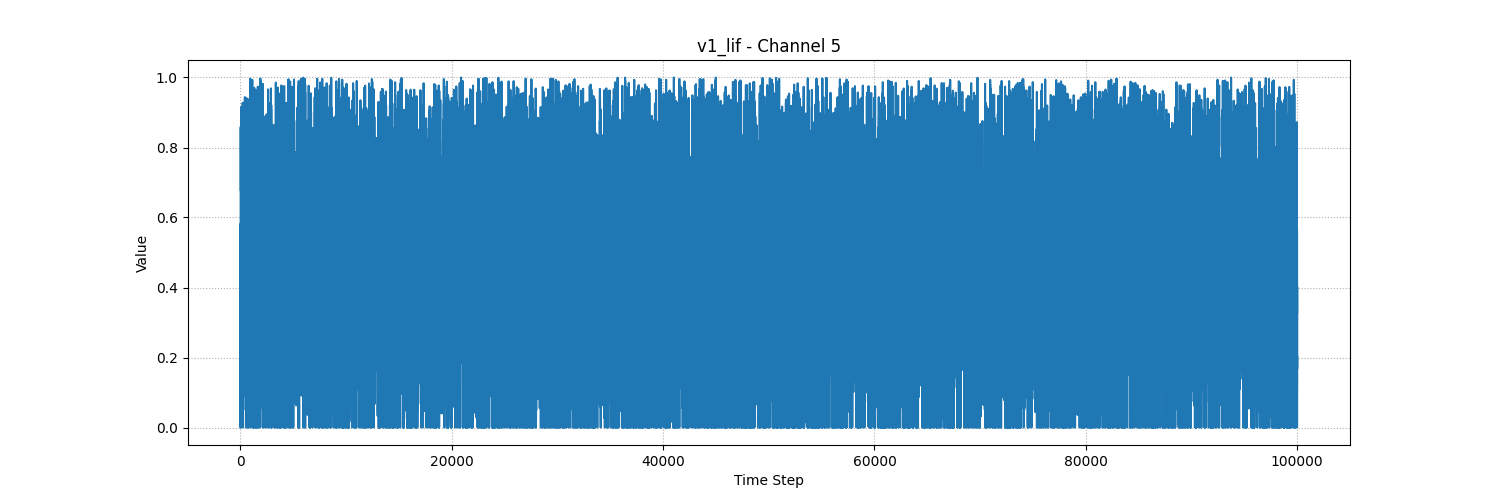
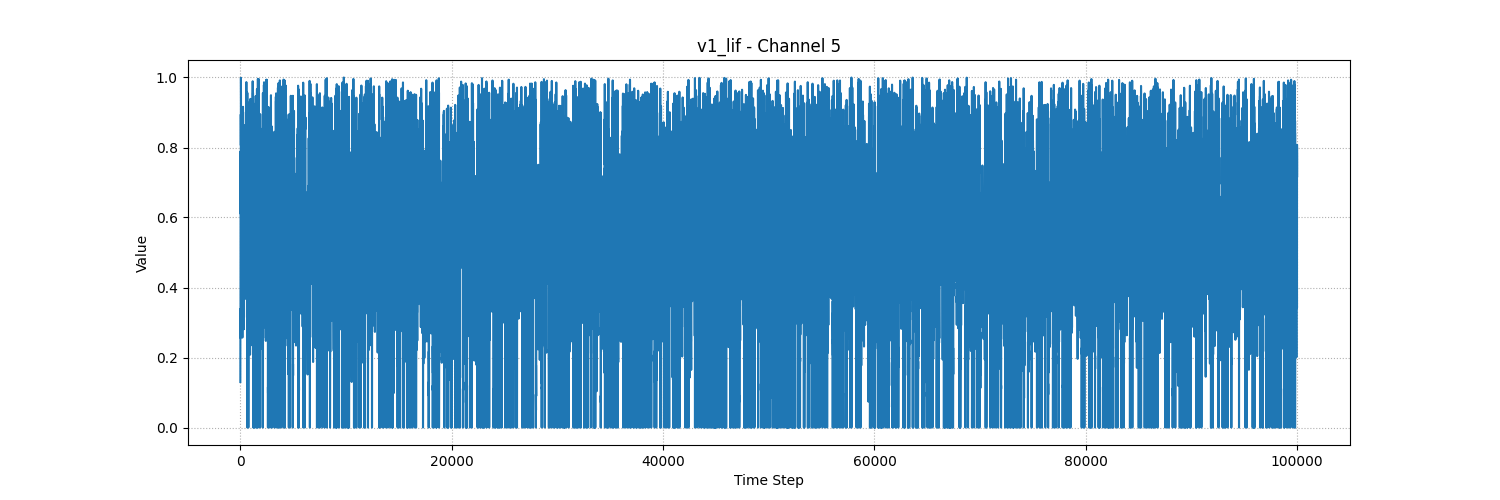
1

Changed region(s): [[0.5213, 0.6, 0.8587, 0.87], [0.1533, 0.15, 0.8587, 0.27], [0.1533, 0.66, 0.4907, 0.87]]

diff --git a/create_toy_datasets.py b/create_toy_datasets.py
@@ -1,5 +1,6 @@
 import numpy as np
 import os
+from scipy.signal import convolve
 
 # =============================================================================
 # --- 全局参数定义 ---
@@ -8,36 +9,41 @@ DATA_PATH = '~/Data/neuron_data'
 TIMESTEPS = 100000
 INPUT_CHANNELS = 20
 OUTPUT_CHANNELS = 7
-# 回归到 1% 的输入稀疏度
 SPIKE_PROBABILITY = 0.01
 
 
 # =============================================================================
-# --- 数据集 1: 简单的线性映射 + Sigmoid (初始版本) ---
+# --- 数据集 1: 平滑的线性映射 ---
 # =============================================================================
 def create_simple_dataset(base_path):
     """
-    创建一个简单的、通过线性变换和非线性激活函数生成的玩具数据集。
+    创建一个平滑的、通过线性变换生成的玩具数据集。
     """
-    print("--- 正在创建数据集 1: 简单映射 (初始版本) ---")
+    print("--- 正在创建数据集 1: 简单平滑映射 ---")
 
-    # 1. 创建输入数据 v0
-    v0_data = np.full((1, INPUT_CHANNELS, TIMESTEPS), -70, dtype=np.int8)
+    # *** 更正部分 1: 直接生成只包含 0 和 1 的 v0 数据 ***
+    v0_data = np.zeros((1, INPUT_CHANNELS, TIMESTEPS), dtype=np.int8)
     np.random.seed(42)
     spike_mask = np.random.rand(1, INPUT_CHANNELS, TIMESTEPS) < SPIKE_PROBABILITY
-    v0_data[spike_mask] = 30
-    v0_binary = (v0_data == 30).astype(np.float32)
+    v0_data[spike_mask] = 1
 
-    # 2. 定义转换矩阵
+    # 定义转换矩阵
     transform_matrix = np.random.randn(INPUT_CHANNELS, OUTPUT_CHANNELS) * 0.5
-    v1_transformed = np.dot(v0_binary[0].T, transform_matrix).T
+    # 直接使用 v0_data[0] 进行计算
+    v1_transformed = np.dot(v0_data[0].T.astype(np.float32), transform_matrix).T
 
-    # 3. 创建 v1 主体 (无平滑)
+    # 对变换后的信号进行平滑处理
+    smoothing_window = np.ones(100) / 100.0
+    v1_smoothed = np.zeros_like(v1_transformed)
+    for i in range(OUTPUT_CHANNELS):
+        v1_smoothed[i, :] = convolve(v1_transformed[i, :], smoothing_window, mode='same')
+
+    # 基于平滑后的信号生成v1
     v1_main = np.zeros((OUTPUT_CHANNELS, TIMESTEPS), dtype=np.float32)
-    v1_main[:6, :] = 1 / (1 + np.exp(-v1_transformed[:6, :]))
-    v1_main[6, :] = (v1_transformed[6, :] > 0.74).astype(np.float32)
+    v1_main[:6, :] = 1 / (1 + np.exp(-v1_smoothed[:6, :]))
+    v1_main[6, :] = (v1_smoothed[6, :] > 0.025).astype(np.float32)
 
-    # 4. 组合并保存
+    # 组合并保存
     initial_state = np.zeros((OUTPUT_CHANNELS, 1), dtype=np.float32)
     v1_data = np.concatenate([initial_state, v1_main], axis=1)[np.newaxis, :, :]
 
@@ -52,32 +58,28 @@ def create_simple_dataset(base_path):
 
 
 # =============================================================================
-# --- 数据集 2: Leaky Integrate-and-Fire (LIF) 神经元 (初始版本) ---
+# --- 数据集 2: 平滑且稀疏的LIF神经元 ---
 # =============================================================================
 def create_lif_dataset(base_path):
     """
-    创建一个基于LIF神经元动力学的玩具数据集 (初始版本)。
+    创建一个膜电位平滑、脉冲发放稀疏的LIF数据集。
     """
-    print("--- 正在创建数据集 2: LIF 神经元 (初始版本) ---")
+    print("--- 正在创建数据集 2: 平滑稀疏LIF神经元 ---")
 
-    # 1. 创建输入数据 v0
-    v0_data = np.full((1, INPUT_CHANNELS, TIMESTEPS), -70, dtype=np.int8)
+    # *** 更正部分 2: 直接生成只包含 0 和 1 的 v0 数据 ***
+    v0_data = np.zeros((1, INPUT_CHANNELS, TIMESTEPS), dtype=np.int8)
     np.random.seed(1337)
     spike_mask = np.random.rand(1, INPUT_CHANNELS, TIMESTEPS) < SPIKE_PROBABILITY
-    v0_data[spike_mask] = 30
-    v0_binary = (v0_data == 30).astype(np.float32)
+    v0_data[spike_mask] = 1
 
-    # 2. 计算输入电流，使用能产生较多脉冲的原始参数
-    input_current = np.sum(v0_binary[0], axis=0) * 0.25
-
-    # 3. 定义LIF参数 (回归到初始值)
-    tau_m = 10.0  # 较小的时间常数，响应更快
-    v_thresh = 1.0  # 阈值电位
-    v_reset = 0.0  # 硬复位电位
-    dt = 1.0  # 时间步长 (ms)
+    # 使用固定的、较小的电流缩放系数，并增大时间常数
+    # 直接使用 v0_data[0] 进行计算
+    input_current = np.sum(v0_data[0], axis=0) * 0.13
+    tau_m = 25.0
+    v_thresh, v_reset, dt = 1.0, 0.0, 1.0
     alpha = np.exp(-dt / tau_m)
 
-    # 4. 模拟神经元动态
+    # 模拟神经元动态
     v_mem = np.zeros(TIMESTEPS, dtype=np.float32)
     spikes = np.zeros(TIMESTEPS, dtype=np.float32)
     v = 0.0
@@ -88,14 +90,14 @@ def create_lif_dataset(base_path):
             v = v_reset
         v_mem[t] = v
 
-    # 5. 创建 v1
+    # 创建 v1
     v1_main = np.zeros((OUTPUT_CHANNELS, TIMESTEPS), dtype=np.float32)
     normalized_v_mem = (v_mem - v_mem.min()) / (v_mem.max() - v_mem.min() + 1e-8)
     for i in range(6):
         v1_main[i, :] = normalized_v_mem
     v1_main[6, :] = spikes
 
-    # 6. 组合并保存
+    # 组合并保存
     initial_state = np.zeros((OUTPUT_CHANNELS, 1), dtype=np.float32)
     v1_data = np.concatenate([initial_state, v1_main], axis=1)[np.newaxis, :, :]
 

diff --git a/analyze_data.py b/analyze_data.py
@@ -1,0 +1,118 @@
+import numpy as np
+import os
+import argparse
+import glob
+
+
+def analyze_v0_data(file_path: str):
+    """
+    分析 v0 (输入刺激) 数据文件。
+
+    打印文件的形状、数据稀疏度、验证其是否为二进制 (0/1)，并展示数据样本。
+    """
+    try:
+        data = np.load(file_path)
+
+        # --- 验证 ---
+        unique_vals = np.unique(data)
+        is_binary = np.all(np.isin(unique_vals, [0, 1]))
+
+        # --- 稀疏度计算 ---
+        sparsity = np.mean(data) * 100
+
+        # --- 打印报告 ---
+        separator = '=' * 20
+        print(f'\n{separator} {os.path.basename(file_path)} {separator}')
+        print(f'Shape: {data.shape}')
+        print(f'Stimulus Sparsity: {sparsity:.4f}%')
+        print(f'Verification: Contains only 0s and 1s? -> {is_binary}')
+
+        # --- 打印样本 ---
+        mid = data.shape[2] // 2
+        np.set_printoptions(precision=1, suppress=True)
+        print('\n--- Data Sample ---')
+        print('First 5 timesteps:\n', data[..., :5])
+        print('\nMiddle 5 timesteps:\n', data[..., mid - 2:mid + 3])
+        print('\nLast 5 timesteps:\n', data[..., -5:])
+
+    except Exception as e:
+        print(f"Error processing {file_path}: {e}")
+
+
+def analyze_v1_data(file_path: str):
+    """
+    分析 v1 (神经元响应) 数据文件。
+
+    打印文件的形状、各通道的电压范围、脉冲通道的二进制验证、脉冲稀疏度以及数据样本。
+    """
+    try:
+        data = np.load(file_path)
+
+        # --- 稀疏度计算 ---
+        spike_channel = data[:, -1, :]
+        sparsity = np.mean(spike_channel) * 100
+
+        # --- 打印报告 ---
+        separator = '=' * 20
+        print(f'\n{separator} {os.path.basename(file_path)} {separator}')
+        print(f'Shape: {data.shape}')
+        print(f'Spike Sparsity: {sparsity:.4f}%')
+
+        # --- 验证 ---
+        print('\n--- Verifications ---')
+        for i in range(data.shape[1] - 1):  # 遍历所有电压通道
+            min_val = np.min(data[0, i, :])
+            max_val = np.max(data[0, i, :])
+            print(f'Ch {i} (Voltage):  Range [{min_val:.4f}, {max_val:.4f}]')
+
+        last_ch_unique = np.unique(data[0, -1, :])
+        is_last_ch_binary = np.all(np.isin(last_ch_unique, [0, 1]))
+        print(f'Ch {data.shape[1] - 1} (Spikes):   Contains only 0s and 1s? -> {is_last_ch_binary}')
+
+        # --- 打印样本 ---
+        mid = data.shape[2] // 2
+        np.set_printoptions(precision=3, suppress=True)
+        print('\n--- Data Sample (all channels) ---')
+        print('First 5 timesteps:\n', data[..., :5])
+        print('\nMiddle 5 timesteps:\n', data[..., mid - 2:mid + 3])
+        print('\nLast 5 timesteps:\n', data[..., -5:])
+
+    except Exception as e:
+        print(f"Error processing {file_path}: {e}")
+
+
+def main(data_dir: str):
+    """
+    主函数，查找并分析指定目录下的所有 'small' 或 'lif' 或 'simple' 数据文件。
+    """
+    print(f"Analyzing data in: {data_dir}")
+
+    # 使用 glob 查找所有需要分析的文件
+    patterns = ['*small*.npy', '*lif*.npy', '*simple*.npy']
+    file_list = []
+    for pattern in patterns:
+        file_list.extend(glob.glob(os.path.join(data_dir, pattern)))
+
+    # 去重并排序
+    file_list = sorted(list(set(file_list)))
+
+    if not file_list:
+        print("No matching .npy files found in the specified directory.")
+        return
+
+    for file_path in file_list:
+        file_name = os.path.basename(file_path)
+        if 'v0' in file_name:
+            analyze_v0_data(file_path)
+        elif 'v1' in file_name:
+            analyze_v1_data(file_path)
+
+
+if __name__ == '__main__':
+    parser = argparse.ArgumentParser(description="Analyze neuron simulation data files.")
+    parser.add_argument('--data_dir', type=str, default='~/Data/neuron_data',
+                        help='Directory containing the .npy data files.')
+    args = parser.parse_args()
+
+    expanded_data_dir = os.path.expanduser(args.data_dir)
+    main(expanded_data_dir)

diff --git a/run_experiments.py b/run_experiments.py
@@ -13,7 +13,7 @@ from typing import List, Dict, Any
 AVAILABLE_GPUS = [0, 1, 2, 3]
 
 # 通用设置
-DATASETS = ['small', 'small_3x', 'small_30x']
+DATASETS = ['simple', 'lif', 'small', 'small_3x', 'small_30x']
 
 # 模型专属的超参数网格
 SEARCH_SPACE: List[Dict[str, Any]] = [
@@ -24,8 +24,9 @@ SEARCH_SPACE: List[Dict[str, Any]] = [
             'hidden_channels': [32, 48, 64],
             'num_levels': [4, 6, 8, 10],
             'dropout': [0.2],
-            'input_kernel_size': [7, 15, 31],
-            'weight_decay': [1e-4, 1e-3, 1e-2]
+            'input_kernel_size': [7, 15, 31, 53],
+            'weight_decay': [1e-4, 1e-3, 1e-2],
+            'fusion_mode': ['add', 'ablate']
         }
     },
     {
@@ -36,7 +37,8 @@ SEARCH_SPACE: List[Dict[str, Any]] = [
             'n_layers': [2, 4, 6],
             'd_state': [64],
             'dropout': [0.1],
-            'weight_decay': [1e-4, 1e-3, 1e-2]
+            'weight_decay': [1e-4, 1e-3, 1e-2],
+            'fusion_mode': ['add', 'ablate']
         }
     }
 ]
